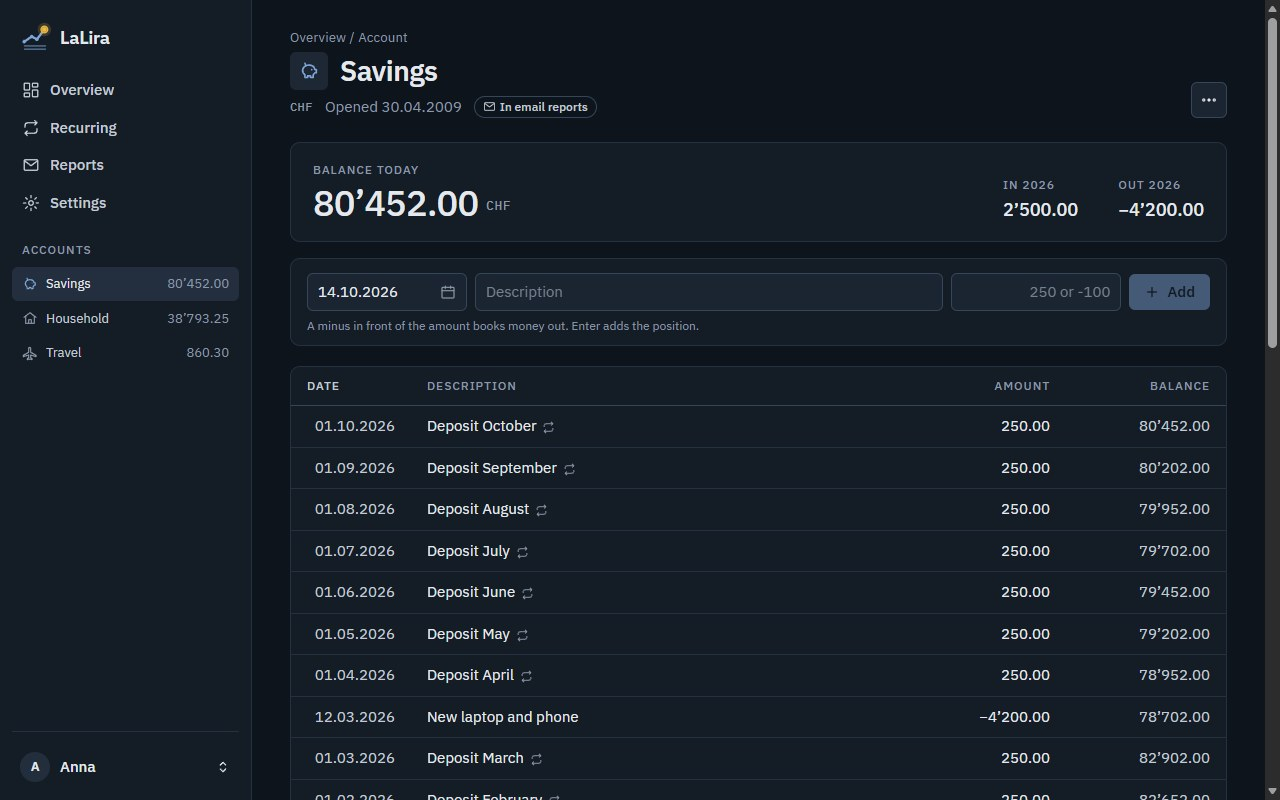
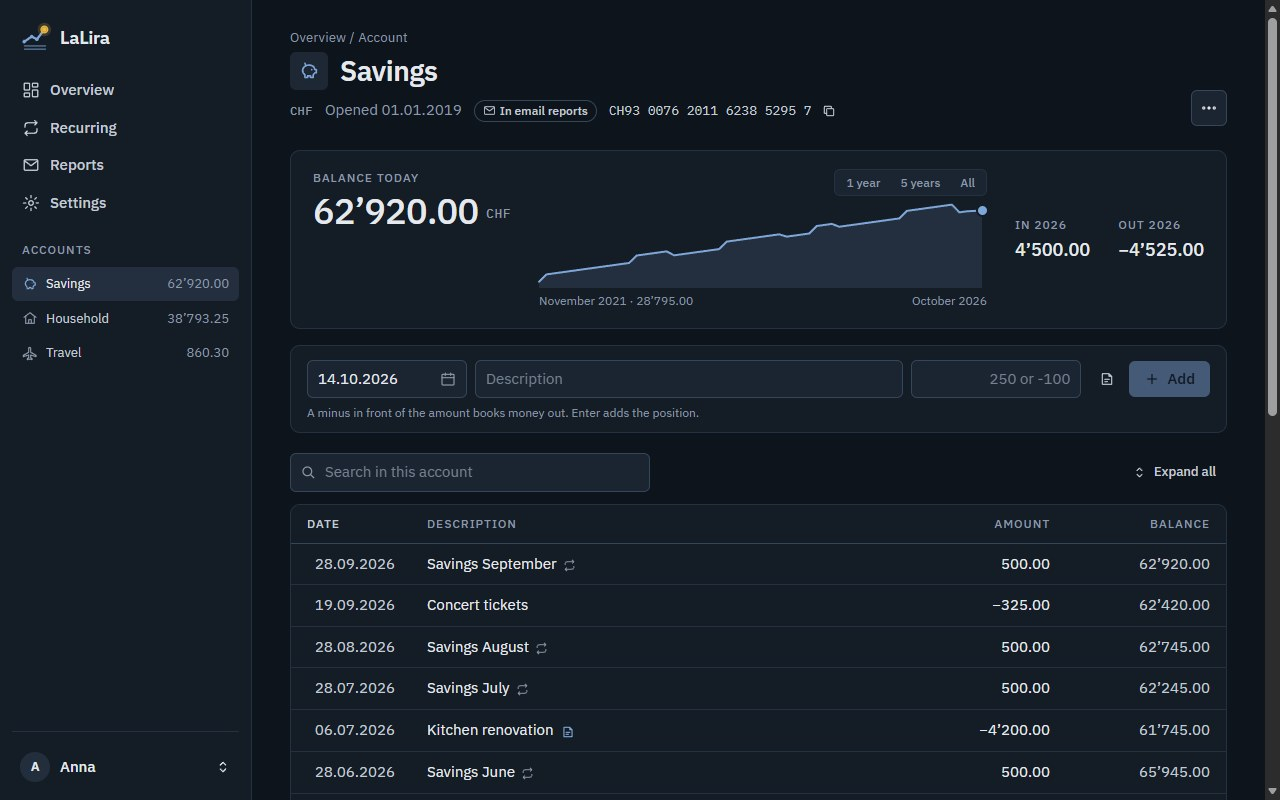
Release 1.1.0
Release notes and README for the new features, README screenshots
retaken from invented demo data only (the old ones were modelled on the
owner's own example figures), and weekday names now follow the UI
language instead of the region format ("Wed", not "Mi", in English with
Swiss formats).

diff --git a/src/LaLira.Web/Services/Format.cs b/src/LaLira.Web/Services/Format.cs
@@ -19,8 +19,10 @@ public static class Format
 
     public static string Date(DateOnly date) => date.ToString("d", C);
 
-    // "Tue, 14.10.2026"
-    public static string DateWithDay(DateOnly date) => date.ToString("ddd", C).TrimEnd('.') + ", " + Date(date);
+    // "Tue, 14.10.2026": the weekday in the UI language, the date in the region format (English
+    // with Swiss formats must not say "Mi").
+    public static string DateWithDay(DateOnly date) =>
+        CultureInfo.CurrentUICulture.DateTimeFormat.GetAbbreviatedDayName(date.DayOfWeek).TrimEnd('.') + ", " + Date(date);
 
     public static string Date(DateTime utc, string timeZone) => Regions.LocalNow(utc, timeZone).ToString("d", C);
 
@@ -55,7 +57,7 @@ public static class Format
 
     // "on the 1st" / "on the last day" / "on Mondays"
     public static string When(Texts t, RuleView r) => r.Frequency == Core.Models.Frequency.Weekly
-        ? t["on {0}", r.StartDate.ToString("dddd", C)]
+        ? t["on {0}", CultureInfo.CurrentUICulture.DateTimeFormat.GetDayName(r.StartDate.DayOfWeek)]
         : r.DayOfMonth >= RuleSchedule.LastDay ? t["on the last day"] : t["on day {0}", r.DayOfMonth];
 
     public static string Period(Texts t, ReportPeriod p) => p switch

diff --git a/README.md b/README.md
@@ -6,12 +6,14 @@ Simple, self-hosted bookkeeping for your accounts. Each account has a currency, 
 
 ![An account: the entry row for new positions, and the list with its running balance](docs/images/lalira-account.jpg)
 
-- **Accounts and positions**: a date, a description and an amount (a minus means money out), typed straight into the list. The current year shows every position; older years show one 31.12. line that opens on click.
-- **Recurring positions**: weekly, monthly, quarterly or yearly, with placeholders such as `Einzahlung {month}` → "Einzahlung Oktober". Missed dates are booked with their own date as soon as the app is back.
-- **Email reports**: monthly, quarterly or yearly, for the accounts you include.
+- **Accounts and positions**: a date, a description and an amount (a minus means money out), typed straight into the list, with an optional note. The current year shows every position; older years show one 31.12. line that opens on click, or all at once.
+- **Balance chart and search**: the balance over 1 year, 5 years or everything, and a search through an account's descriptions, notes, amounts and dates.
+- **IBAN**: optional per account, checked for typos, with a copy button.
+- **Recurring positions**: weekly, monthly, quarterly or yearly, with placeholders such as `Deposit {month}` → "Deposit October". Missed dates are booked with their own date as soon as the app is back.
+- **Email reports**: monthly, quarterly or yearly: money in and out and every booking, for the accounts you include.
 - **CSV import and export**, with a preview and duplicate detection.
-- **Backups**: a daily automatic backup, downloads with an optional password, and restore from the browser.
-- **English and German**, with separate region formats (for example English with Swiss formats: 31’833.00, 14.10.2026).
+- **Backups**: a daily automatic backup, downloads with an optional password, and restore from the browser. Each backup also holds every account as a CSV file, and a safety backup is made before every update.
+- **English and German**, with separate region formats (for example English with Swiss formats: 12’480.00, 14.10.2026).
 - **Users**: the first user is the admin, who invites others; optional account requests from the sign-in page. Everyone's accounts are private.
 - **Homepage widget**: your money in and out this month on a [gethomepage.dev](https://gethomepage.dev) dashboard.
 

diff --git a/CHANGELOG.md b/CHANGELOG.md
@@ -1,5 +1,17 @@
 # Release notes
 
+## 1.1.0 - 2026-10-14
+
+### New
+- An optional IBAN per account, checked for typos and shown with a copy button.
+- Notes for positions, written in a small dialog and included in the CSV export and import.
+- A balance chart in the account header (1 year, 5 years or everything).
+- Search within an account, and expand or collapse all years at once.
+
+### Improved
+- Every backup also contains each account as a CSV file.
+- Minor fixes and updates.
+
 ## 1.0.0 - 2026-10-14
 
 Initial release.
